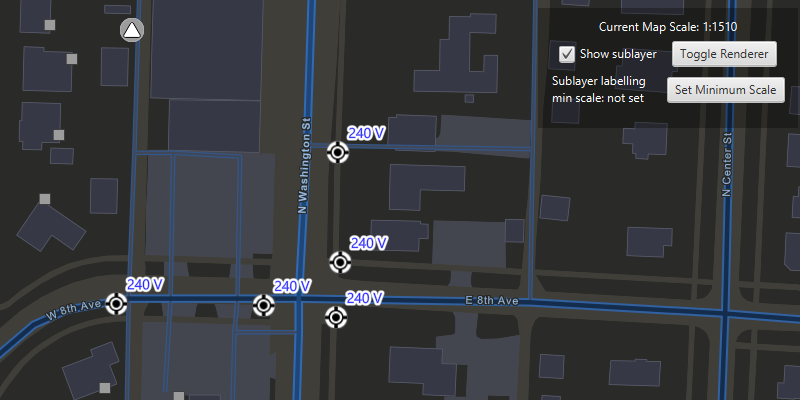
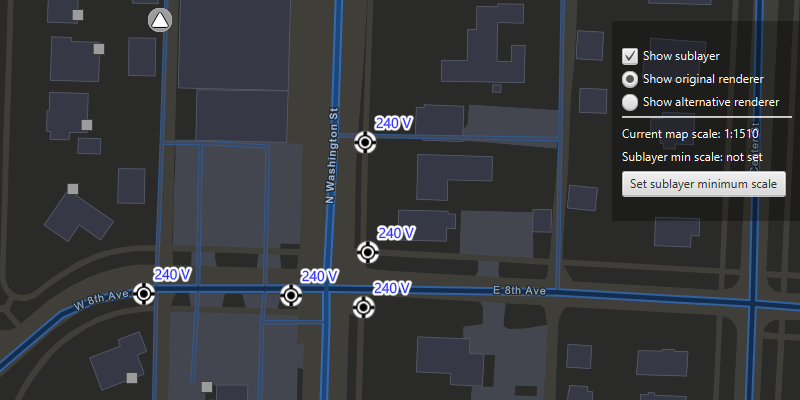
address review comments and update UI

diff --git a/feature_layers/display-subtype-feature-layer/src/main/resources/style.css b/feature_layers/display-subtype-feature-layer/src/main/resources/style.css
@@ -2,18 +2,6 @@
   -fx-text-fill: white;
 }
 
-.label {
-  -fx-text-fill: black;
-}
-
-.slider .axis {
-    -fx-tick-label-fill: white;
-}
-
-.range-slider .axis {
-    -fx-tick-label-fill: white;
-}
-
 .panel-region .check-box {
    -fx-text-fill: white;
 }
@@ -22,6 +10,3 @@
    -fx-text-fill: white;
 }
 
-.color-picker .color-picker-label {
-   -fx-text-fill: black;
-}

diff --git a/feature_layers/display-subtype-feature-layer/src/main/java/com/esri/samples/feature_layers/DisplaySubtypeFeatureLayerController.java b/feature_layers/display-subtype-feature-layer/src/main/java/com/esri/samples/feature_layers/DisplaySubtypeFeatureLayerController.java
@@ -28,26 +28,25 @@ import com.esri.arcgisruntime.layers.SubtypeSublayer;
 import com.esri.arcgisruntime.mapping.ArcGISMap;
 import com.esri.arcgisruntime.mapping.Basemap;
 import com.esri.arcgisruntime.mapping.Viewpoint;
+import com.esri.arcgisruntime.mapping.view.MapView;
 import com.esri.arcgisruntime.symbology.Renderer;
 import com.esri.arcgisruntime.symbology.SimpleMarkerSymbol;
 import com.esri.arcgisruntime.symbology.SimpleRenderer;
 import com.esri.arcgisruntime.symbology.Symbol;
-import javafx.fxml.FXML;
 
-import com.esri.arcgisruntime.mapping.view.MapView;
+import javafx.fxml.FXML;
 import javafx.scene.control.CheckBox;
 import javafx.scene.control.Label;
-import javafx.scene.control.ToggleButton;
 
 public class DisplaySubtypeFeatureLayerController {
-
-  @FXML private ToggleButton toggleRendererButton;
+  
   @FXML private MapView mapView;
   @FXML private Label currentMapScaleLabel;
   @FXML private Label minScaleLabel;
-  @FXML private CheckBox checkBox;
+  @FXML private CheckBox sublayerVisibilityCheckbox;
   private SubtypeSublayer sublayer;
   private Renderer originalRenderer;
+  private Renderer alternativeRenderer;
   
   public void initialize() {
 
@@ -59,17 +58,16 @@ public class DisplaySubtypeFeatureLayerController {
       mapView.setMap(map);
       // display the current map scale 
       mapView.addMapScaleChangedListener(mapScaleChangedEvent ->
-        currentMapScaleLabel.setText("Current Map Scale: 1:" + Math.round(mapView.getMapScale())));
-
+        currentMapScaleLabel.setText("Current map scale: 1:" + Math.round(mapView.getMapScale())));
+      
       // set the viewpoint to Naperville, Illinois
       Viewpoint initialViewpoint = new Viewpoint(new Envelope(-9812691.11079696, 5128687.20710657,
         -9812377.9447607, 5128865.36767282, SpatialReferences.getWebMercator()));
       map.setInitialViewpoint(initialViewpoint);
 
       // create a subtype feature layer from the service feature table, and add it to the map
-      final String serviceFeatureTableUrl = "https://sampleserver7.arcgisonline" +
-        ".com/arcgis/rest/services/UtilityNetwork/NapervilleElectric/FeatureServer/100";
-      ServiceFeatureTable serviceFeatureTable = new ServiceFeatureTable(serviceFeatureTableUrl);
+      ServiceFeatureTable serviceFeatureTable = new ServiceFeatureTable("https://sampleserver7.arcgisonline" +
+        ".com/arcgis/rest/services/UtilityNetwork/NapervilleElectric/FeatureServer/100");
       SubtypeFeatureLayer subtypeFeatureLayer = new SubtypeFeatureLayer(serviceFeatureTable);
       map.getOperationalLayers().add(subtypeFeatureLayer);
       
@@ -82,6 +80,7 @@ public class DisplaySubtypeFeatureLayerController {
         json = scanner.useDelimiter("\\A").next();
       }
 
+      // load the subtype feature layer
       subtypeFeatureLayer.loadAsync();
       subtypeFeatureLayer.addDoneLoadingListener(() -> {
         
@@ -90,8 +89,12 @@ public class DisplaySubtypeFeatureLayerController {
         sublayer.setLabelsEnabled(true);
         sublayer.getLabelDefinitions().add(LabelDefinition.fromJson(json));
 
-        // get the original renderer of the sublayer
+        // get the original renderer of the sublayer (white and black circular icon)
         originalRenderer = sublayer.getRenderer();
+        // create a custom renderer for the sublayer (light pink diamond symbol)
+        Symbol symbol = new SimpleMarkerSymbol(SimpleMarkerSymbol.Style.DIAMOND, 0xfff58f84, 20);
+        alternativeRenderer = new SimpleRenderer(symbol);
+
       });
 
     } catch (Exception e) {
@@ -101,36 +104,38 @@ public class DisplaySubtypeFeatureLayerController {
   }
 
   /**
-   * Sets the visibility of the sublayer.
-   */
-  @FXML
-  private void controlSublayerVisibility() {
-    sublayer.setVisible(checkBox.isSelected());
-  }
-  
-  /**
-   * Switches between a renderer with a pink diamond symbol and the sublayer's original renderer.
-   */
-  @FXML
-  private void handleToggleRendererButtonClicked() {
-    if (toggleRendererButton.isSelected()) {
-      Symbol symbol = new SimpleMarkerSymbol(SimpleMarkerSymbol.Style.DIAMOND, 0xfff58f84, 20);
-      Renderer sublayerRenderer = new SimpleRenderer(symbol);
-      sublayer.setRenderer(sublayerRenderer);
-    } else {
-      sublayer.setRenderer(originalRenderer);
-    }
-  }
-
-  /**
    * Sets the minimum scale of the labels for the sublayer.
    */
   @FXML
   private void handleMinScaleButtonClicked() {
     sublayer.setMinScale(mapView.getMapScale());
-    minScaleLabel.setText("Sublayer labelling min scale: 1:" + Math.round(sublayer.getMinScale()));
+    minScaleLabel.setText("Sublayer min scale: 1:" + Math.round(sublayer.getMinScale()));
   }
 
+  /**
+   * Sets the visibility of the sublayer.
+   */
+  @FXML
+  private void controlSublayerVisibility() {
+    sublayer.setVisible(sublayerVisibilityCheckbox.isSelected());
+  }
+  
+  /**
+   * Sets the renderer of the sublayer to its original format (a white and black circular icon). 
+   */
+  @FXML
+  private void handleOriginalRendererButtonClicked() {
+    sublayer.setRenderer(originalRenderer);
+  }
+
+  /**
+   * Sets the renderer of the sublayer to that of a pink diamond symbol.
+   */
+  @FXML
+  private void handleAlternativeRendererButtonClicked() {
+    sublayer.setRenderer(alternativeRenderer);
+  }
+  
   /**
    * Disposes application resources.
    */

diff --git a/feature_layers/display-subtype-feature-layer/README.md b/feature_layers/display-subtype-feature-layer/README.md
@@ -10,10 +10,10 @@ This is useful for controlling labeling, visibility and symbology of a given sub
 
 ## How to use the sample
 
-The sample loads with the sublayer visible on the map. Toggle its visibility by clicking the "Show sublayer" checkbox. To change the sublayer's renderer, click the "Toggle Renderer" button, and click the "Set Minimum Scale" button to set its minimum scale to that of the current map scale. Zoom in and out to see the sublayer become visible based on its new scale range.
+The sample loads with the sublayer visible on the map. Toggle its visibility by clicking the "Show sublayer" checkbox. To change the sublayer's renderer, click the "Show alternative renderer" button, and to return to its original renderer, click the "Show alternative renderer" button. Click the "Set sublayer minimum scale" button to set the sublayer's minimum scale to that of the current map scale (this is labelled in the UI and updates when the scale is changed). Zoom in and out to see the sublayer become visible based on its new scale range.
 
 ## How it works
-1.  Create a `SubtypeFeatureLayer` from a `ServiceFeatureTable` that defines a subtype, and add it to the `ArcGISMap`.
+1. Create a `SubtypeFeatureLayer` from a `ServiceFeatureTable` that defines a subtype, and add it to the `ArcGISMap`.
 2. Get a `SubtypeSublayer` from the subtype feature layer using its name.
 3. Enable the sublayer's labels and define them with `getLabelDefinitions()`.
 4. Set the visibility status using this sublayer's `setVisible()` property.
